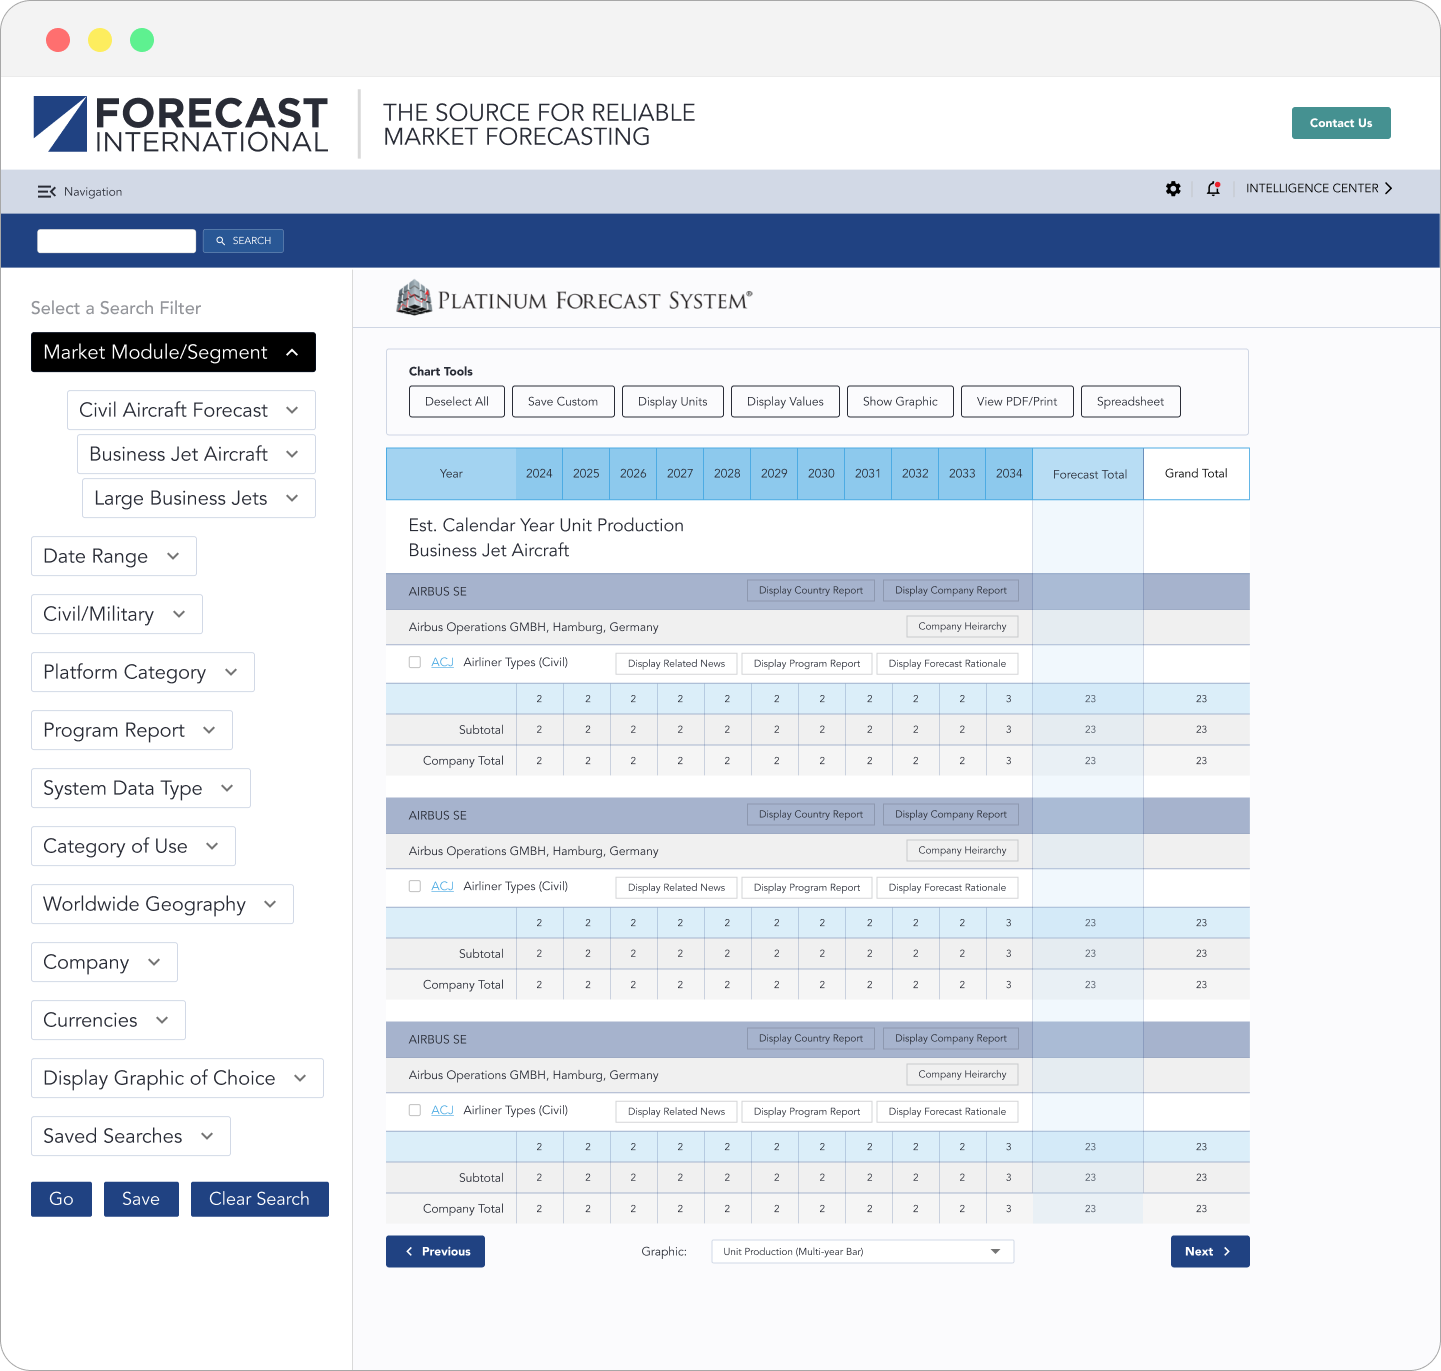
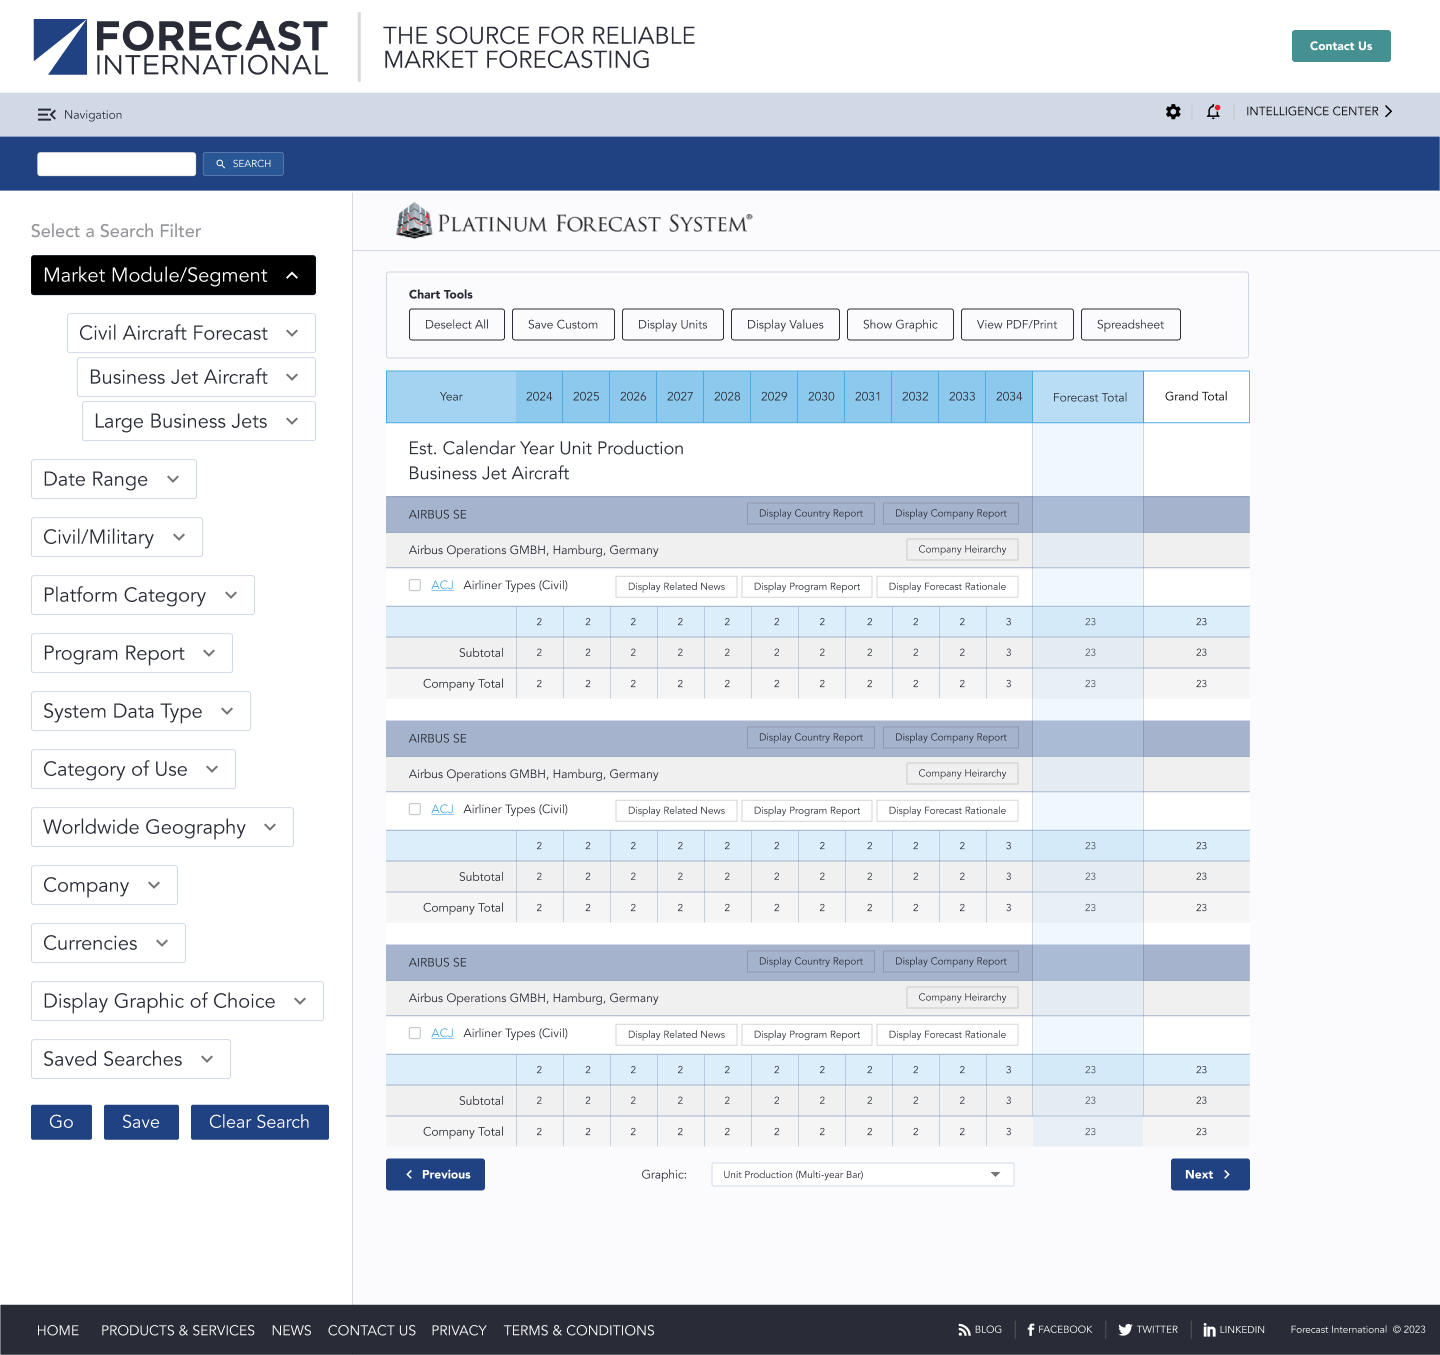
Updated cs01 and final css fixes

diff --git a/assets/css/styles.css b/assets/css/styles.css
@@ -2706,8 +2706,8 @@ h4 {
 h5 {
   font-family: "PPFormula-Light", "Helvetica Light", Helvetica, Arial, sans-serif;
   font-weight: normal;
-  font-size: 36px;
-  font-size: 3.6rem;
+  font-size: 20px;
+  font-size: 2rem;
   line-height: 1;
   margin-top: 36px;
 }
@@ -2867,6 +2867,15 @@ p, li {
     font-size: 24px;
     font-size: 2.4rem;
   }
+}
+
+.imgcaption {
+  font-family: "PPEiko-Regular", serif;
+  font-weight: normal;
+  font-size: 10px;
+  font-size: 1rem;
+  padding: 0 0 0 12px;
+  opacity: 0.8;
 }
 
 html, body {
@@ -3180,8 +3189,8 @@ footer article.thankyou {
   /*center children*/
   justify-content: space-between;
   max-width: 1140px;
-  margin: 36px auto 0;
-  color: #111113;
+  margin: 36px auto 12px;
+  opacity: 0.6;
 }
 
 #footer {
@@ -3567,11 +3576,12 @@ h3 img {
 
 .sidebyside {
   display: flex;
-  height: 290px;
+  min-height: 247px;
   gap: 10px;
+  justify-content: space-between;
 }
 .sidebyside img {
-  width: auto;
+  width: 50%;
 }
 @media (max-width: 480px) {
   .sidebyside {
@@ -3733,9 +3743,9 @@ h3 img {
 }
 
 .callout {
-  border-top: 3px solid #111113;
+  border: 3px solid #111113;
   padding: 0 2em;
-  margin: 4em 0 0 2em;
+  margin: 4em 0 0 0;
   border-radius: 0;
 }
 .callout h4 {
@@ -3749,7 +3759,7 @@ h3 img {
   line-height: 1;
 }
 .callout p {
-  font-size: 12px;
+  font-size: 14px;
   line-height: 1.5;
 }
 
@@ -3996,8 +4006,8 @@ h4 {
 h5 {
   font-family: "PPFormula-Light", "Helvetica Light", Helvetica, Arial, sans-serif;
   font-weight: normal;
-  font-size: 36px;
-  font-size: 3.6rem;
+  font-size: 20px;
+  font-size: 2rem;
   line-height: 1;
   margin-top: 36px;
 }
@@ -4157,6 +4167,15 @@ p, li {
     font-size: 24px;
     font-size: 2.4rem;
   }
+}
+
+.imgcaption {
+  font-family: "PPEiko-Regular", serif;
+  font-weight: normal;
+  font-size: 10px;
+  font-size: 1rem;
+  padding: 0 0 0 12px;
+  opacity: 0.8;
 }
 
 /*  ------------

diff --git a/assets/css/scss/_typography.scss b/assets/css/scss/_typography.scss
@@ -327,6 +327,18 @@
 			@include tablet {}
 			@include mobile {@include font-size(2.4);}
 		}
+		
+		
+		
+		.imgcaption {
+			font-family: $font-family--body;
+			font-weight: normal;
+			@include font-size(1);
+			
+			padding: 0 0 0 12px;
+			opacity: .8;
+			
+		}
 
 
 		

diff --git a/assets/css/scss/_layout.scss b/assets/css/scss/_layout.scss
@@ -343,8 +343,9 @@ footer {
     align-items: center;             /*center children*/
     justify-content: space-between; 
     max-width: 1140px;
-    margin: 36px auto 0;
-	color: $black;
+    margin: 36px auto 12px;
+	opacity: .6;
+	//color: $black;
 }
 
 

diff --git a/assets/css/scss/_main.scss b/assets/css/scss/_main.scss
@@ -357,11 +357,12 @@
 
 .sidebyside {
 	display: flex;
-	height:290px;
+	min-height:247px;
 	gap: 10px;
+	justify-content: space-between;
 	  
 	  img {
-		  width:auto;
+		  width:50%;
 	  }
 	  
 	 @include tablet{

diff --git a/cases/cs1.md b/cases/cs1.md
@@ -20,46 +20,56 @@ selection: true
 <p>As senior product designer, working for a B2B media corporation, I lead the initiative to update and enhance the marketing website and digital products for a newly acquired market forecasting company.</p>
 
 <p>User surveys were conducted post acquisition that resulted in the identification of two key areas for improvement within the products.</p>
-<img src="../assets/images/01test.png" />
-<div class="imgcaption">This is an image caption.</div>
 
 <h4>Project Objectives</h4>
 <p> Analysis from the user surveys showed flat user growth and declining user engagement within the organization’s most used products. Our primary objective for this initiative was to investigate the cause behind this and solutions to address it.</p>
 
+
+
+<img src="../assets/images/01test.png" />
 <img src="../assets/images/06test.png" />
-<div class="imgcaption">This is an image caption.</div>
+<div class="imgcaption">Screenshots of the platform prior to redesign.</div>
+
+
+
 <p>Additionally, we set out to evolve and improve the design and brand experience to better meet user expectations.</p>
 
 <img src="../assets/images/08test.png" />
-<div class="imgcaption">This is an image caption.</div>
+<div class="imgcaption">Forms before and after</div>
 
 <h4>Strategy / Approach</h4>
 <p>The backend code base had many legacy constraints and would place a number of limits on the design. Because of this, the project was split into three phases; paid customer products (?), marketing homepage (redesign?), and finally, a full website. </p>
-<img src="../assets/images/02test.png" />
-<div class="imgcaption">This is an image caption.</div>
+
 
 <h4>Execution</h4>
-<p>Analyzed and refined user flows to improve processes and add efficiencies. One instance resulted in a lead capture process going rom five down to two steps.</p>
+<p>Analyzed and refined user flows to improve processes and add efficiencies. One instance resulted in a lead capture process going from five steps, down to two.</p>
+<p>In all phases of the project we made it a priority to identified customer funnel improvements and review and update user flows. </p>
 <p>Components were redesigned to reflect the the new brand experience and increased emphasis on accessibility. </p>
+<p></p>
 
-<div class="sidebyside">
-<img src="../assets/images/03test.png" />
-<img src="../assets/images/04test.png" />
-<div class="imgcaption">This is an image caption.</div>
+<img src="../assets/images/02test.png" />
+<div class="imgcaption">Skeleton design of the platform</div>
 
-</div>
+<img src="../assets/images/cs01-10.png" />
+<div class="imgcaption">A chart page before redesign.</div>
 
-<h4>Results &amp; Metrics</h4>
+<img src="../assets/images/cs01-11.png" />
+<div class="imgcaption">A chart page after redesign.</div>
 
+<h4>Results and Challenges</h4>
 <p>User engagement has showed 6 months of continued improvement</p>
-<p>Homepage is still unreleased. Site redesign is on hold.</p>
-<img src="../assets/images/05test.png" />
+<p>Homepage is still unreleased and the website redesign is on hold.</p>
+<p>Ultimate approval of the project was validated from the largest client granting access to the platform for their employees.</p>
+<p>Limited resources and schedule priorities caused this project to stall at times. I kept weekly communication with the different stakeholders to keep updated.</p>
+
 <img src="../assets/images/07test.png" />
-<div class="imgcaption">This is an image caption.</div>
+<img src="../assets/images/09test.jpeg" />
+<img src="../assets/images/05test.jpeg" />
+
+<div class="imgcaption">Final designs for the platform</div>
 
 
-<h4>Challenges</h4>
-<p>Putt the challenges here.</p>
+
 
 
 

diff --git a/cases/cs2.md b/cases/cs2.md
@@ -29,7 +29,7 @@ selection: true
 <li>Evolve our product with a focus on scalability to support a fast growing events business.</li>
 </ul>
 	
-<img src="../assets/images/cs02-01.png" />
+<img src="../assets/images/cs02-01b.png" />
 
 <div class="imgcaption">Audits were completed of the existing platform.</div>
 
@@ -53,7 +53,7 @@ selection: true
 
 <img src="../assets/images/cs02-18.jpeg" />
 <img src="../assets/images/cs02-19.png" />
-<div class="imgcaption">This is an image caption.</div>
+<div class="imgcaption">Skeletons where utilized to confirm large design changes.</div>
 
 
 <img src="../assets/images/cs02-03.jpeg" />
